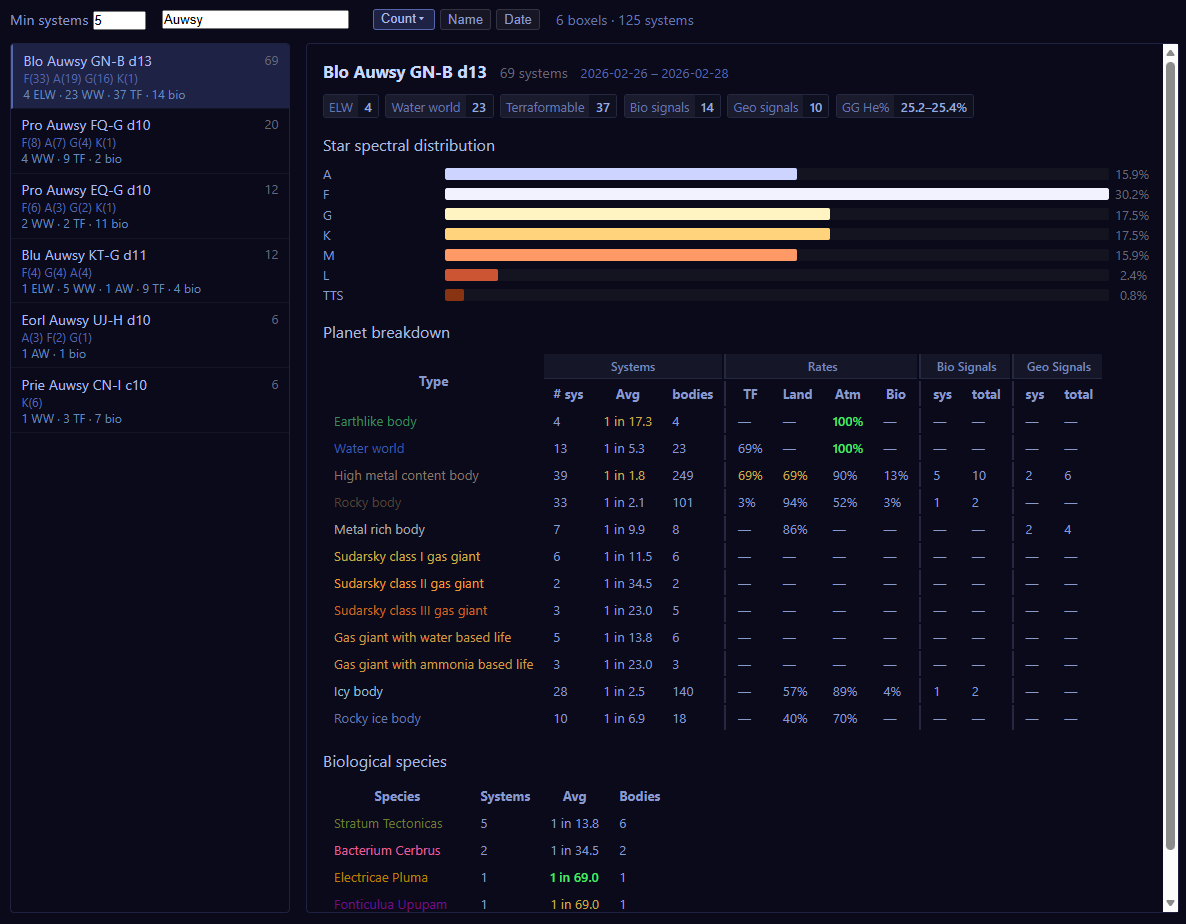
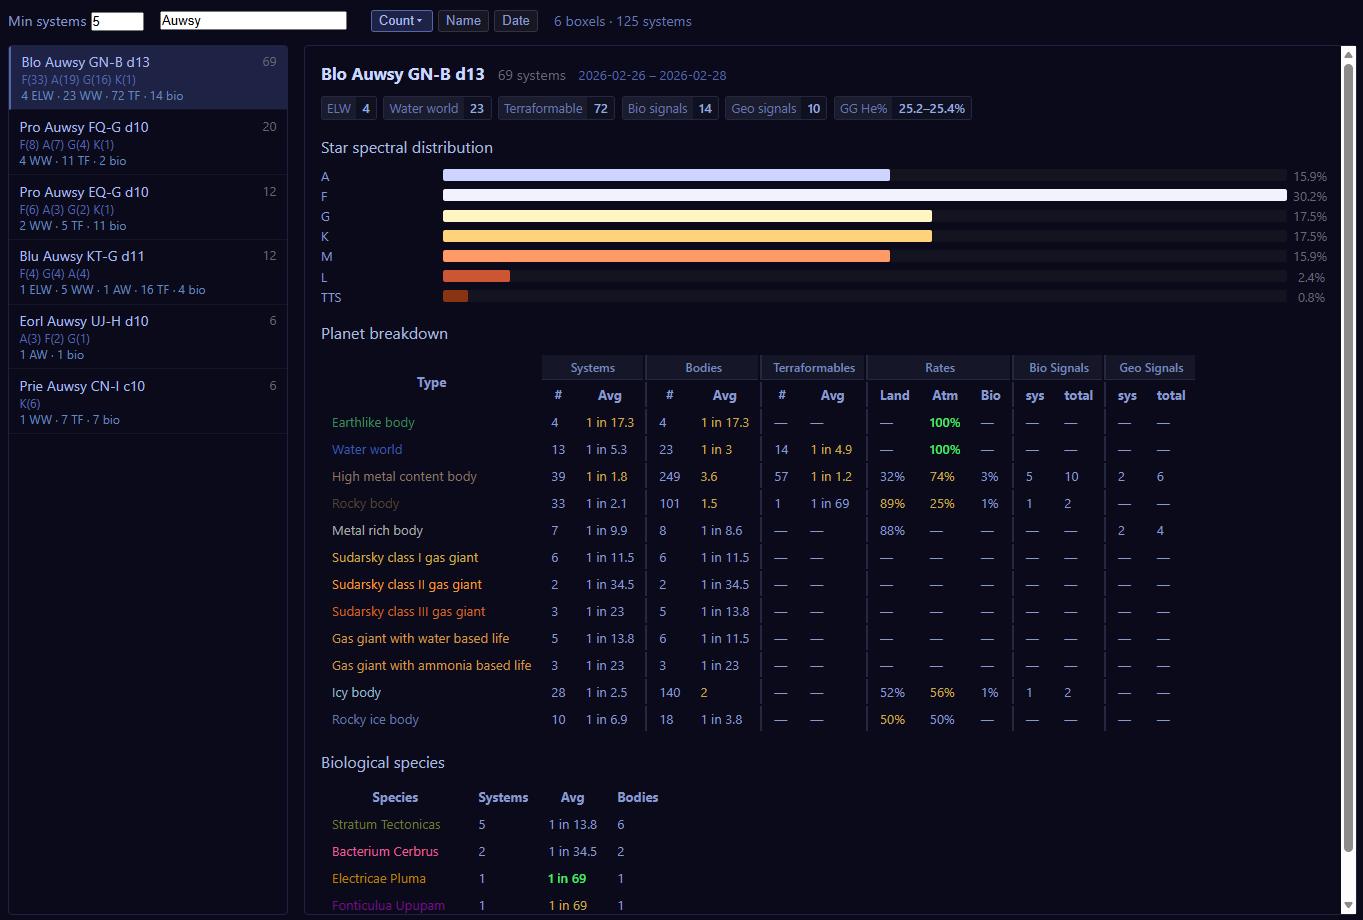
Minor Update to Boxels
---

- Fixed terraformable counts
- Reworked table "Plantet breakdown" a bit by adding two new column
sections: "Bodies" and "Terraformables"

diff --git a/src/edda/analysis/dashboard.py b/src/edda/analysis/dashboard.py
@@ -1556,7 +1556,9 @@ function _drawSys() {
     function _oneIn(sys, total) {
         if (!sys || !total) return '—';
         var r = total / sys;
-        return r < 1.05 ? 'every' : '1 in ' + r.toFixed(1);
+        function fmt(n) { var s = n.toFixed(1); return s.slice(-2) === '.0' ? s.slice(0, -2) : s; }
+        if (r < 1.05) return fmt(sys / total);
+        return '1 in ' + fmt(r);
     }
 
     // Genus → colour: same 24-colour palette as the Exobiology 3D map, fixed per genus
@@ -1591,14 +1593,15 @@ function _drawSys() {
             var tot = bx.cnt;
             Object.entries(bx.planets || {}).forEach(function(kv) {
                 var tn = kv[0], pl = kv[1];
-                if (!rawPl[tn]) rawPl[tn] = {freq:[],tf:[],land:[],atm:[],bio:[]};
+                if (!rawPl[tn]) rawPl[tn] = {freq:[],avg_bodies:[],avg_tf:[],land_b:[],atm_b:[],bio_b:[]};
                 var d = rawPl[tn];
                 if (tot > 0 && pl.sys > 0) d.freq.push(pl.sys / tot);
-                if (pl.sys > 0) {
-                    if (pl.tf)    d.tf.push(pl.tf    / pl.sys);
-                    if (pl.land)  d.land.push(pl.land / pl.sys);
-                    if (pl.atm)   d.atm.push(pl.atm  / pl.sys);
-                    if (pl.bio_s) d.bio.push(pl.bio_s / pl.sys);
+                if (pl.cnt > 0) {
+                    if (tot > 0) d.avg_bodies.push(pl.cnt / tot);
+                    if (pl.tf_cnt && tot > 0) d.avg_tf.push(pl.tf_cnt / tot);
+                    if (pl.land_cnt) d.land_b.push(pl.land_cnt / pl.cnt);
+                    if (pl.atm_cnt)  d.atm_b.push(pl.atm_cnt  / pl.cnt);
+                    if (pl.bio_cnt)  d.bio_b.push(pl.bio_cnt   / pl.cnt);
                 }
             });
             (bx.species || []).forEach(function(s) {
@@ -1617,7 +1620,7 @@ function _drawSys() {
         _pctTh = {};
         Object.entries(rawPl).forEach(function(kv) {
             var tn = kv[0], d = kv[1];
-            _pctTh[tn] = { freq: pts(d.freq), tf: pts(d.tf), land: pts(d.land), atm: pts(d.atm), bio: pts(d.bio) };
+            _pctTh[tn] = { freq: pts(d.freq), avg_bodies: pts(d.avg_bodies), avg_tf: pts(d.avg_tf), land_b: pts(d.land_b), atm_b: pts(d.atm_b), bio_b: pts(d.bio_b) };
         });
 
         _pctThSp = {};
@@ -1715,20 +1718,23 @@ function _drawSys() {
         }
         var rows = entries.map(function(e) {
             var t = e[0], p = e[1];
-            var freqR = (total > 0 && p.sys > 0) ? p.sys / total       : 0;
-            var tfR   = (p.sys > 0 && p.tf)      ? p.tf    / p.sys     : 0;
-            var landR = (p.sys > 0 && p.land)     ? p.land  / p.sys    : 0;
-            var atmR  = (p.sys > 0 && p.atm)      ? p.atm   / p.sys    : 0;
-            var bioR  = (p.sys > 0 && p.bio_s)    ? p.bio_s / p.sys    : 0;
+            var freqR      = (total > 0 && p.sys > 0) ? p.sys    / total  : 0;
+            var avgBodiesR = total > 0                 ? p.cnt    / total  : 0;
+            var avgTfR     = (total > 0 && p.tf_cnt)  ? p.tf_cnt / total  : 0;
+            var landR      = (p.cnt && p.land_cnt) ? p.land_cnt / p.cnt : 0;
+            var atmR       = (p.cnt && p.atm_cnt)  ? p.atm_cnt  / p.cnt : 0;
+            var bioR       = (p.cnt && p.bio_cnt)  ? p.bio_cnt  / p.cnt : 0;
             return '<tr>'
                 + '<td style="color:' + _planetCol(t, false) + '">' + esc(t) + '</td>'
                 + cell(p.sys)
                 + cell(_oneIn(p.sys, total), _pctClass(freqR, t, 'freq'))
-                + cell(p.cnt)
-                + gsep(pct(p.tf,   p.sys), _pctClass(tfR,   t, 'tf'))
-                + cell(pct(p.land, p.sys), _pctClass(landR, t, 'land'))
-                + cell(pct(p.atm,  p.sys), _pctClass(atmR,  t, 'atm'))
-                + cell(pct(p.bio_s,p.sys), _pctClass(bioR,  t, 'bio'))
+                + gsep(p.cnt)
+                + cell(_oneIn(p.cnt, total), _pctClass(avgBodiesR, t, 'avg_bodies'))
+                + gsep(p.tf_cnt || null)
+                + cell(_oneIn(p.tf_cnt, total), _pctClass(avgTfR, t, 'avg_tf'))
+                + gsep(pct(p.land_cnt, p.cnt), _pctClass(landR, t, 'land_b'))
+                + cell(pct(p.atm_cnt,  p.cnt), _pctClass(atmR,  t, 'atm_b'))
+                + cell(pct(p.bio_cnt,  p.cnt), _pctClass(bioR,  t, 'bio_b'))
                 + gsep(p.bio_s || null)
                 + cell(p.bio   || null)
                 + gsep(p.geo_s || null)
@@ -1739,14 +1745,18 @@ function _drawSys() {
         return '<table class="data-table bx-sys-list">'
             + '<tr>'
             + '<th rowspan="2">Type</th>'
-            + '<th colspan="3" class="grp">Systems</th>'
-            + '<th colspan="4" class="grp grp-sep">Rates</th>'
+            + '<th colspan="2" class="grp">Systems</th>'
+            + '<th colspan="2" class="grp grp-sep">Bodies</th>'
+            + '<th colspan="2" class="grp grp-sep">Terraformables</th>'
+            + '<th colspan="3" class="grp grp-sep">Rates</th>'
             + '<th colspan="2" class="grp grp-sep">Bio Signals</th>'
             + '<th colspan="2" class="grp grp-sep">Geo Signals</th>'
             + '</tr>'
             + '<tr>'
-            + '<th># sys</th><th>Avg</th><th>bodies</th>'
-            + '<th class="grp-sep">TF</th><th>Land</th><th>Atm</th><th>Bio</th>'
+            + '<th>#</th><th>Avg</th>'
+            + '<th class="grp-sep">#</th><th>Avg</th>'
+            + '<th class="grp-sep">#</th><th>Avg</th>'
+            + '<th class="grp-sep">Land</th><th>Atm</th><th>Bio</th>'
             + '<th class="grp-sep">sys</th><th>total</th>'
             + '<th class="grp-sep">sys</th><th>total</th>'
             + '</tr>'

diff --git a/src/edda/analysis/stats.py b/src/edda/analysis/stats.py
@@ -1373,10 +1373,11 @@ def boxels_data(conn: sqlite3.Connection, min_systems: int = 2) -> list[dict]:
 
     # star subtype counts: [bx][subtype] = count
     bx_stars: dict[str, dict] = defaultdict(lambda: defaultdict(int))
-    # planet stats per (bx, subtype): list[9] of ints
+    # planet stats per (bx, subtype): list[13] of ints
     # [0]=sys_count [1]=total_bodies [2]=tf_sys [3]=land_sys [4]=atm_sys
-    # [5]=bio_total [6]=bio_sys [7]=geo_total [8]=geo_sys
-    bx_planets: dict[str, dict] = defaultdict(lambda: defaultdict(lambda: [0] * 9))
+    # [5]=bio_total [6]=bio_sys [7]=geo_total [8]=geo_sys [9]=tf_bodies
+    # [10]=land_bodies [11]=atm_bodies [12]=bio_bodies
+    bx_planets: dict[str, dict] = defaultdict(lambda: defaultdict(lambda: [0] * 13))
     # He% values for gas giants: [bx] = [he_pct, ...]
     bx_he: dict[str, list] = defaultdict(list)
     # bio species: [bx][species_localised] = [sys_count, genus_localised, body_count]
@@ -1398,7 +1399,7 @@ def boxels_data(conn: sqlite3.Connection, min_systems: int = 2) -> list[dict]:
                 bx_stars[bx][subtype] += 1
 
         # Planets aggregated per (system, subtype) — gives per-system presence flags
-        for sa, subtype, has_tf, has_land, has_atm, bio, has_bio, geo, has_geo, cnt in conn.execute(
+        for sa, subtype, has_tf, has_land, has_atm, bio, has_bio, geo, has_geo, cnt, tf_cnt, land_cnt, atm_cnt, bio_cnt in conn.execute(
             f"""SELECT system_address, subtype,
                 MAX(CASE WHEN terraform_state NOT IN ('','Not terraformable')
                          AND terraform_state IS NOT NULL THEN 1 ELSE 0 END),
@@ -1409,7 +1410,13 @@ def boxels_data(conn: sqlite3.Connection, min_systems: int = 2) -> list[dict]:
                 MAX(CASE WHEN COALESCE(bio_signals,0)>0 THEN 1 ELSE 0 END),
                 COALESCE(SUM(geo_signals),0),
                 MAX(CASE WHEN COALESCE(geo_signals,0)>0 THEN 1 ELSE 0 END),
-                COUNT(*)
+                COUNT(*),
+                COALESCE(SUM(CASE WHEN terraform_state NOT IN ('','Not terraformable')
+                         AND terraform_state IS NOT NULL THEN 1 ELSE 0 END),0),
+                COALESCE(SUM(COALESCE(is_landable,0)),0),
+                COALESCE(SUM(CASE WHEN atmosphere_type NOT IN ('','None')
+                         AND atmosphere_type IS NOT NULL THEN 1 ELSE 0 END),0),
+                COALESCE(SUM(CASE WHEN COALESCE(bio_signals,0)>0 THEN 1 ELSE 0 END),0)
                 FROM bodies
                 WHERE system_address IN ({ph}) AND body_type='Planet' AND subtype IS NOT NULL
                 GROUP BY system_address, subtype""",
@@ -1420,7 +1427,8 @@ def boxels_data(conn: sqlite3.Connection, min_systems: int = 2) -> list[dict]:
                 continue
             p = bx_planets[bx][subtype]
             p[0] += 1; p[1] += cnt; p[2] += has_tf; p[3] += has_land; p[4] += has_atm
-            p[5] += bio; p[6] += has_bio; p[7] += geo; p[8] += has_geo
+            p[5] += bio; p[6] += has_bio; p[7] += geo; p[8] += has_geo; p[9] += tf_cnt
+            p[10] += land_cnt; p[11] += atm_cnt; p[12] += bio_cnt
 
         # Gas giant He% for metallicity range
         for sa, he_pct in conn.execute(
@@ -1463,12 +1471,14 @@ def boxels_data(conn: sqlite3.Connection, min_systems: int = 2) -> list[dict]:
                 "sys": p[0], "cnt": p[1],
                 "tf": p[2], "land": p[3], "atm": p[4],
                 "bio": p[5], "bio_s": p[6],
-                "geo": p[7], "geo_s": p[8],
+                "geo": p[7], "geo_s": p[8], "tf_cnt": p[9],
+                "land_cnt": p[10], "atm_cnt": p[11], "bio_cnt": p[12],
             }
             for st, p in sorted(
                 bx_planets.get(bx, {}).items(), key=lambda x: -x[1][1]
             )
         }
+
 
         species_out = [
             {"sp": sp, "genus": d[1], "sys": d[0], "cnt": d[2]}
@@ -1481,7 +1491,7 @@ def boxels_data(conn: sqlite3.Connection, min_systems: int = 2) -> list[dict]:
         elw = planets.get("Earthlike body", {}).get("cnt", 0)
         ww  = planets.get("Water world",   {}).get("cnt", 0)
         aw  = planets.get("Ammonia world", {}).get("cnt", 0)
-        tf  = sum(v["tf"]  for v in planets.values())
+        tf  = sum(v["tf_cnt"] for v in planets.values())
         bio = sum(v["bio"] for v in planets.values())
         geo = sum(v["geo"] for v in planets.values())
 

diff --git a/README.md b/README.md
@@ -318,7 +318,7 @@ The dashboard sections:
 | Body-type Catalogue | Per-type totals with first-discovery and mapping stats; property ranges (gravity, temperature, radius, Earth masses, surface pressure, ring outer radius) with min/avg/max and body names (clickable); most bodies of that type in one system (clickable); sortable detail table with distance to commander; spectral distribution chart per body type |
 | Star-class Catalogue | Stars grouped by type; per-class system and body statistics; property ranges (surface temperature, solar radius, solar mass, age, ring outer radius) with min/avg/max and star names; most stars of that class in one system; sortable detail table with distance to commander |
 | Notable Stellar Phenomena | Overview counts; interactive 3D galaxy map with colour-coded markers (category hue, subcategory lightness); FSS Detections table with catalogued NSP types as coloured tags; per-category and per-subcategory drill-down panels with new-codex-entry tracking and decoded galactic region names |
-| Boxels | Filterable, sortable list of visited boxels; per-boxel detail panel with star spectral distribution, planet breakdown (Systems / Rates / Bio Signals / Geo Signals column groups, sorted by body value, rate cells colour-coded by cross-boxel percentile), and biological species table (genus colours, Avg percentile highlighting) |
+| Boxels | Filterable, sortable list of visited boxels; per-boxel detail panel with star spectral distribution, planet breakdown (Systems / Bodies / Terraformables / Rates / Bio Signals / Geo Signals column groups, sorted by body value, Avg cells colour-coded by cross-boxel percentile), and biological species table (genus colours, Avg percentile highlighting) |
 
 ### `pdm run stratum`
 
